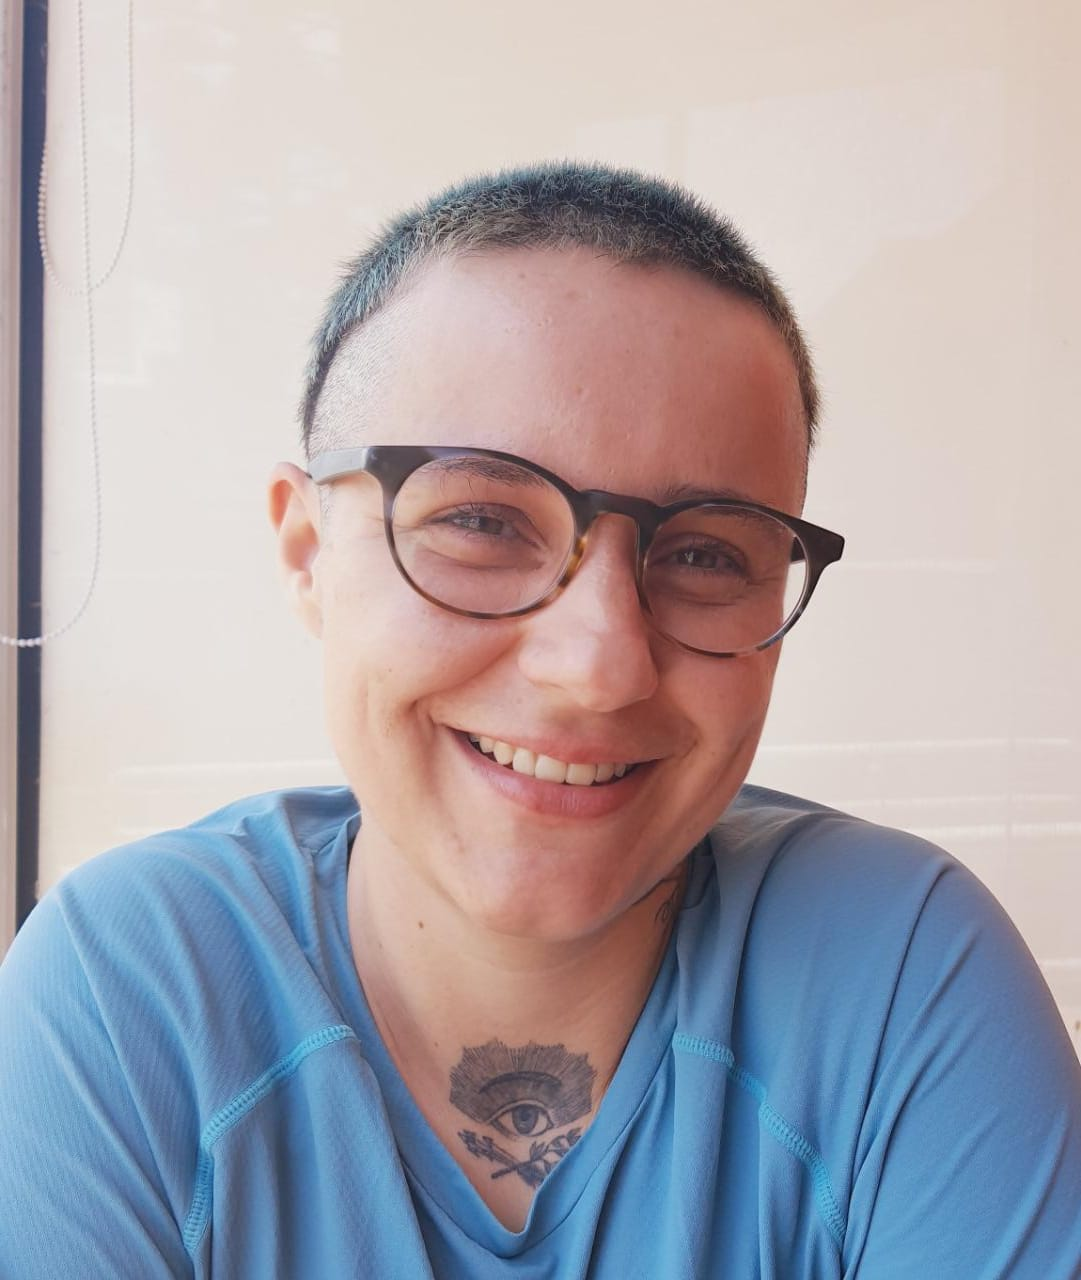
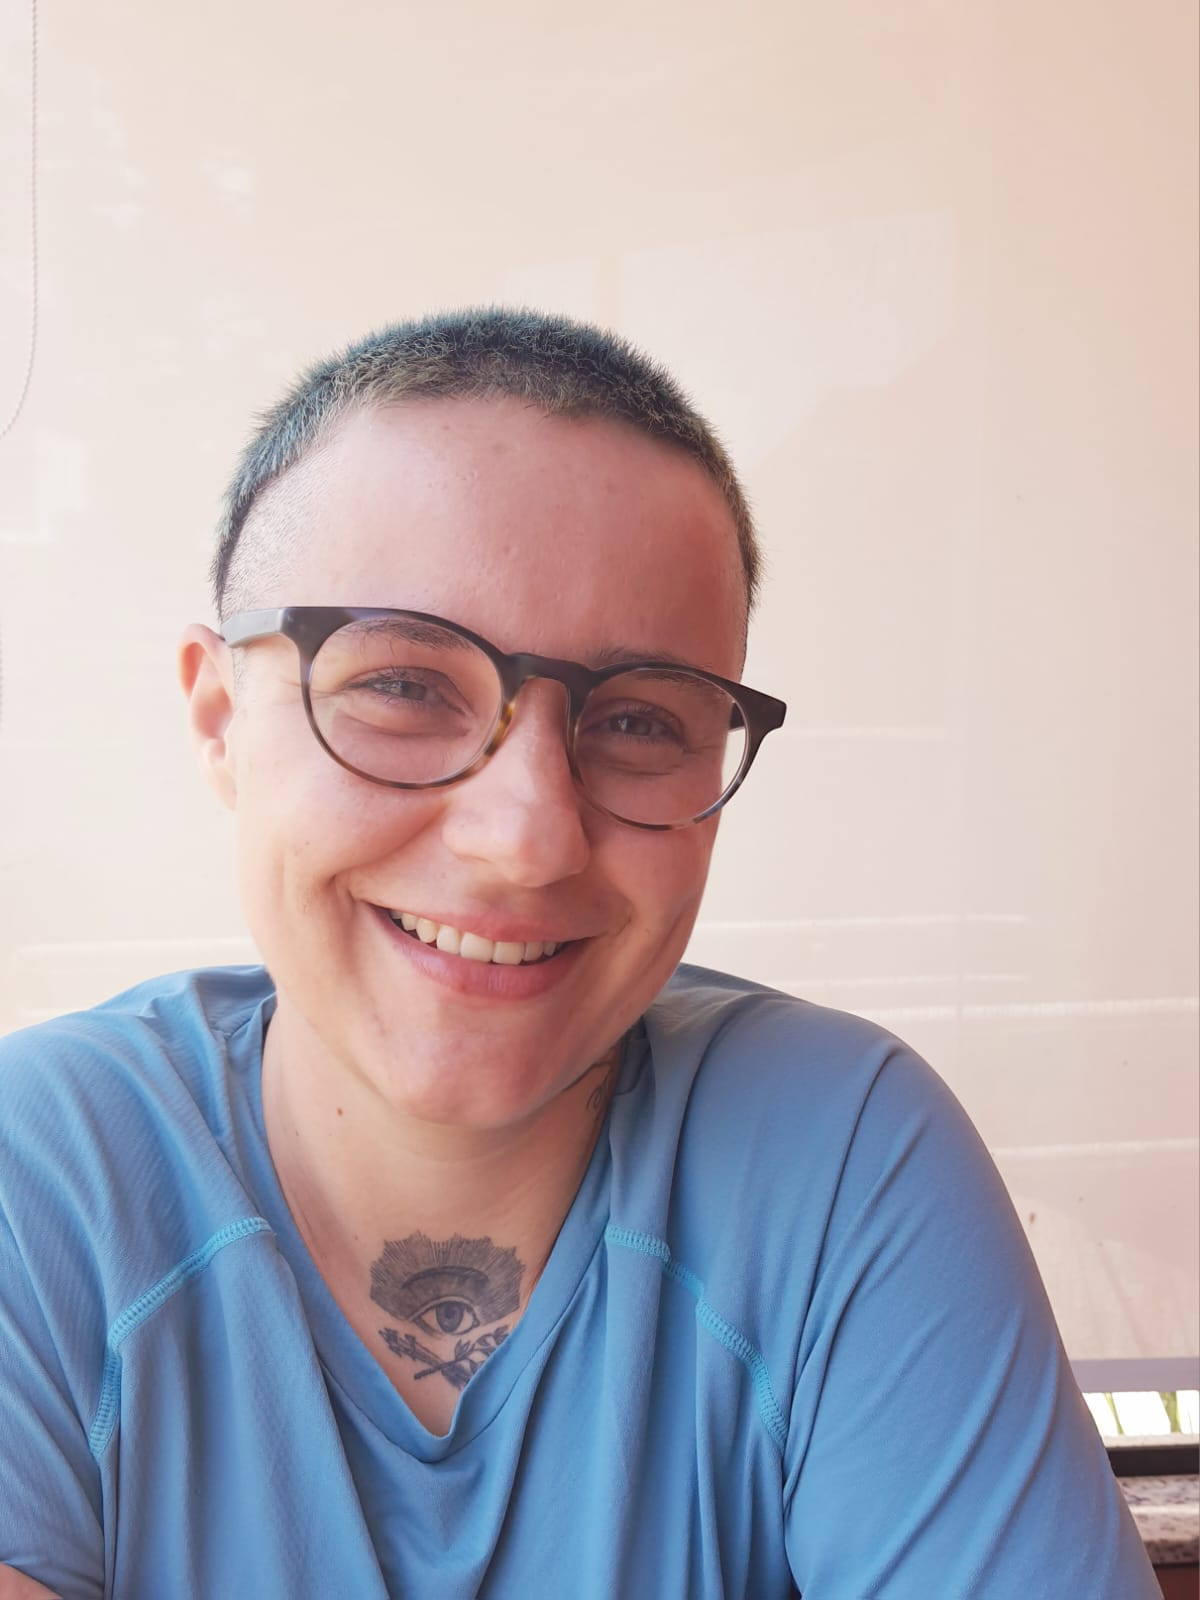
add new component, CardDevs, update component CardInfo, photos edited

diff --git a/src/pages/quem-somos/index.tsx b/src/pages/quem-somos/index.tsx
@@ -19,21 +19,21 @@ export default function AboutPage(){
       </section>
 
       <section className="flex flex-col">
-        <article className="p-4">
-          <Image src={martiPic} alt="Martina" height={400} className="rounded-full"/>
-          Martina Tortelli
-            <aside>
+        <article className="flex flex-row p-3">
+          <Image src={martiPic} alt="Martina" height={400} className="rounded-full p-4"/>
+          <h3 className="inline-flex min-w-max self-center text-2xl">Martina Tortelli</h3>
+            <p className="p-4 self-center text-base">
               Estudante de Tecnologia da Informação, com interesses em aplicações para desenvolvimento web e desktop, automação e manutenção de hardware. 
-            </aside>
+            </p>
         </article>
 
-        <article className="p-4">
-          <Image src={meliPic} alt="Melissa" height={500} 
-          className="rounded-full"/>
-          Melissa Tortelli
-            <aside>
+        <article className="flex flex-row p-6">
+          <Image src={meliPic} alt="Melissa" height={400} 
+          className="rounded-full p-4"/>
+          <h3 className="inline-flex min-w-max self-center text-2xl">Melissa Tortelli</h3>
+            <p className="p-4 self-center text-base">
               Atualmente sou estudante de Engenharia da Computação, com formação técnica em Desenvolvimento de Sistemas. Meus interesses na área são desenvolvimento front-end e back-end
-            </aside>
+            </p>
         </article>
       </section>
     </>

diff --git a/src/components/CardDevs/CardDevs.tsx b/src/components/CardDevs/CardDevs.tsx
@@ -1,0 +1,29 @@
+import Image from "next/image";
+import martiPic from "@/../public/marti.jpg"
+import meliPic from "@/../public/meli.jpg"
+
+export default function CardDevs(){
+  return(
+    <>
+      <section className="flex flex-col">
+        <article className="flex flex-row p-3">
+          <Image src={martiPic} alt="Martina" height={400} 
+          className=" rounded-full p-4"/>
+          <h3 className="inline-flex min-w-max self-center text-lg">Martina Tortelli</h3>
+            <p className="p-4 self-center text-base">
+              Sou estudante de Tecnologia da Informação, com interesses em desenvolvimento de aplicações web e desktop,  e manutenção de hardware. 
+            </p>
+        </article>
+
+        <article className="flex flex-row p-6">
+          <Image src={meliPic} alt="Melissa" height={400} 
+          className="rounded-full p-4"/>
+          <h3 className="inline-flex min-w-max self-center text-lg">Melissa Tortelli</h3>
+            <p className="p-4 self-center text-base">
+              Atualmente sou estudante de Engenharia da Computação, com formação técnica em Desenvolvimento de Sistemas. Meus interesses na área são desenvolvimento web, front-end e back-end, design system
+            </p>
+        </article>
+      </section>
+    </>
+  )
+}

diff --git a/src/components/CardInfo/CardInfo.tsx b/src/components/CardInfo/CardInfo.tsx
@@ -1,5 +1,17 @@
+import Image from "next/image";
+import martiPic from "@/../public/marti.jpg"
+import meliPic from "@/../public/meli.jpg"
+
 export default function CardInfo(){
   return (
-    <section></section>
+    <section>
+      <h1 className="text-3xl space-x-1">Quem somos</h1>
+      <p className="text-lg justify-start text-justify">
+        A TRIA é feita por nós, Martina e Melissa.
+        Estudamos e trabalhamos com desenvolvimento, programação e TI, e buscamos oferecer as melhores Soluções em Tecnologia para você e sua empresa.
+        Nosso trabalho é interdisciplinar e reúne experiências profissionais, acadêmicas e nossas referências de mundo.
+        Converse com a gente. Converse com a TRIA.
+      </p>
+    </section>
   )
 }
